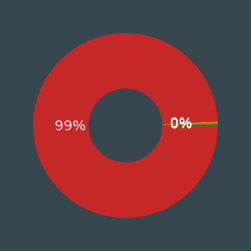
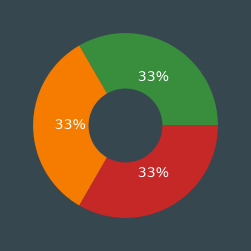
Pending changes exported from your codespace

Changed region(s): [[0.1116, 0.1116, 0.8924, 0.8367], [0.5578, 0.6414, 0.6693, 0.7251]]

diff --git a/pdfcreate.py b/pdfcreate.py
@@ -142,12 +142,17 @@ def _grafico_pastel(titulo, valores, colores):
 
     eje.set_title(titulo, loc="left", fontsize=11, fontweight="bold", color="#17324D", pad=10)
     eje.set_aspect("equal")
-    buffer = BytesIO()
-    figura.savefig(buffer, format="png", bbox_inches="tight", facecolor="white")
+
+    # Guardar a un archivo temporal en lugar de BytesIO para evitar el error SRC_BYTES
+    import tempfile
+    with tempfile.NamedTemporaryFile(suffix=".png", delete=False) as tmp:
+        ruta_tmp = tmp.name
+        figura.savefig(ruta_tmp, format="png", bbox_inches="tight", facecolor="white")
     plt.close(figura)
-    buffer.seek(0)
-    imagen = Image(buffer, width=8.8 * cm, height=5.55 * cm)
-    imagen._buffer = buffer  # Mantiene el contenido disponible hasta construir el PDF.
+
+    imagen = Image(ruta_tmp, width=8.8 * cm, height=5.55 * cm)
+    # Almacenar la ruta para limpiar después de construir el PDF
+    imagen._qr_temp_path = ruta_tmp
     return imagen
 
 
@@ -205,6 +210,17 @@ def _crear_reporte(nombre_archivo, titulo, descripcion, resumen, graficos, tabla
         Paragraph("Documento confidencial para uso administrativo.", estilos["pie"]),
     ]
     documento.build(historia, onFirstPage=_cabecera, onLaterPages=_cabecera)
+
+    # Limpiar archivos temporales de los gráficos
+    import os
+    for grafico in graficos:
+        ruta_tmp = getattr(grafico, "_qr_temp_path", None)
+        if ruta_tmp and os.path.exists(ruta_tmp):
+            try:
+                os.unlink(ruta_tmp)
+            except OSError:
+                pass
+
     return ruta
 
 
